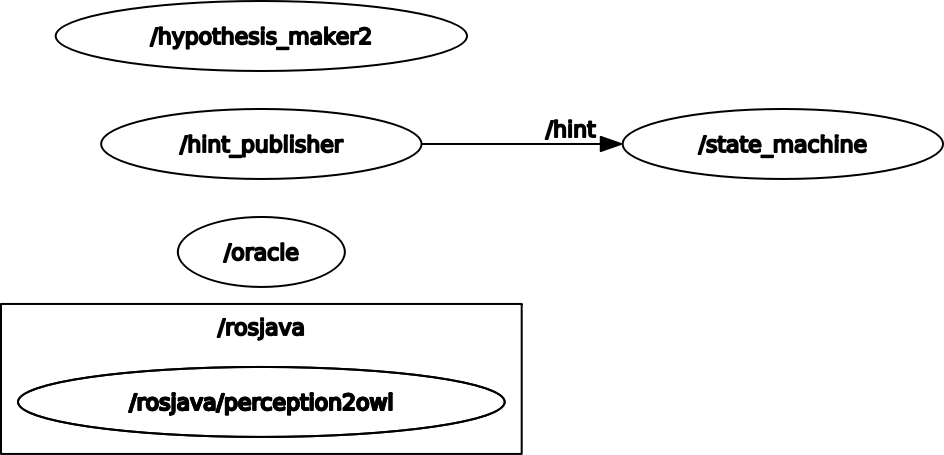
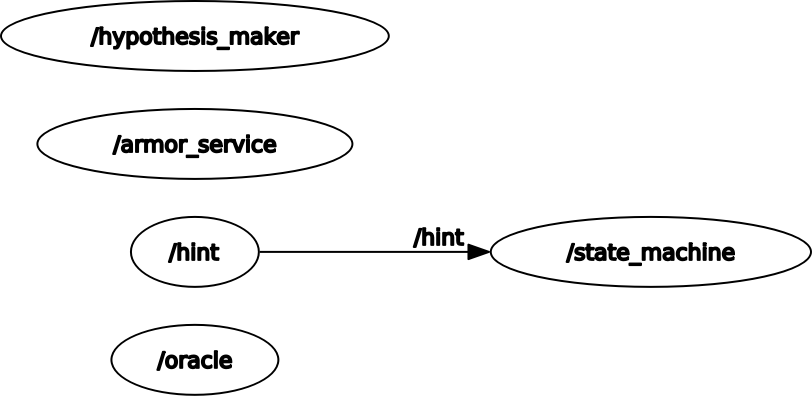
read me

diff --git a/README.md b/README.md
@@ -29,10 +29,31 @@ The package is composed of:
 ## Custom messages and services
 ### Hint message
 The message is composed of three string: id, name and class. These are needed to be readable from armor service and upload them correctly on the onthology.
+
+>string id
+>string name
+>string class_id
+
 ### Hypothesis service
 The request has the same format as the Hint message. The response is composed of 3 strings (id, who, what, where) and 1 boolean value (consistent). This service is called every time i upload one hint and return any complete hint, with a boolean value that checks if it is consistent.
+**Request**
+>string id
+>string name
+>string class_id
+**Response**
+>string id
+>string who
+>string where
+>string what
+>bool consistent
+
 ### oracle service 
-The request is a string with the id of the hypotesis. The response is a boolean value that checks if the hypothesis is correct.
+The request is a string with the id of the hypotesis. The response is an int32 value that checks if the hypothesis is correct.
+**Request**
+>string id
+
+**Response**
+>int32 right
 
 ## Nodes
 ### hint_publisher.py
@@ -41,16 +62,24 @@ This node generates random hint from an array of hints and, using a ROS publishe
 This node is the one tasked with communicating with the armor service and updating the onthology. It receives the hints and adds them to the onthology, then it checks if there is a complete hypothesis. In case there is it returns the complete hypothesis, otherwise is returns an empty message.
 ### oracle_service.py
 This node is tasked with checking if the complete hypothesis is the correct one. It does so by simply checking if the hypotesis' id is "HP3" or whatever the user sets.
-
+### state_machine.py
+This node is the central node and handles the behaviour of the robot, basing it off of states. There are 3 states: move, clues and hyp. The first one handles the movement of the robot to a random room, the second one collects hints and the last one checks if the hypothesis formulated is correct.
 ## Architecture diagram
 ![System Architecture](images/exp_rob1.jpg)
 
 ![Rqt Graph](images/rosgraph.png)
 
+As we can see the architecture is composed of 5 nodes. The central one is the state machine, which subscribes to the hint publisher and call the services in hypothesis_maker and oracle. 
+The hypothesis maker node also call the service in armor, in order to update the cluedo onthology.
 ## State Machine
 ![State Machine](images/sm_sys.GIF)
-## Temporal sequence diagram
 
+The state machine has 3 states: move, clues and hyp. The machine starts in the move state, from which will move to the clues state.
+The clues state has two possible outputs, based on if the received hypothesis is complete or not. If the hypothesis is complete then it will go to the hyp state, to check if it is correct. Otherwise the machine will return to the move state to collect more hints.
+The hyp state has two outcomes, if the hypothesis is correct then the game ends, otherwise the machine returns to the move state, to collect more hints.
+## Temporal sequence diagram
+![System Architecture](images/exp_rob1_seq.jpg)
+This image shows a temporal sequence diagram for the simulation, in case every output is ok at the first run. Probably the state machine will be called again and again but the number of times is not fixed, so it is not represented.
 
 # Installation and Running Procedure
 
